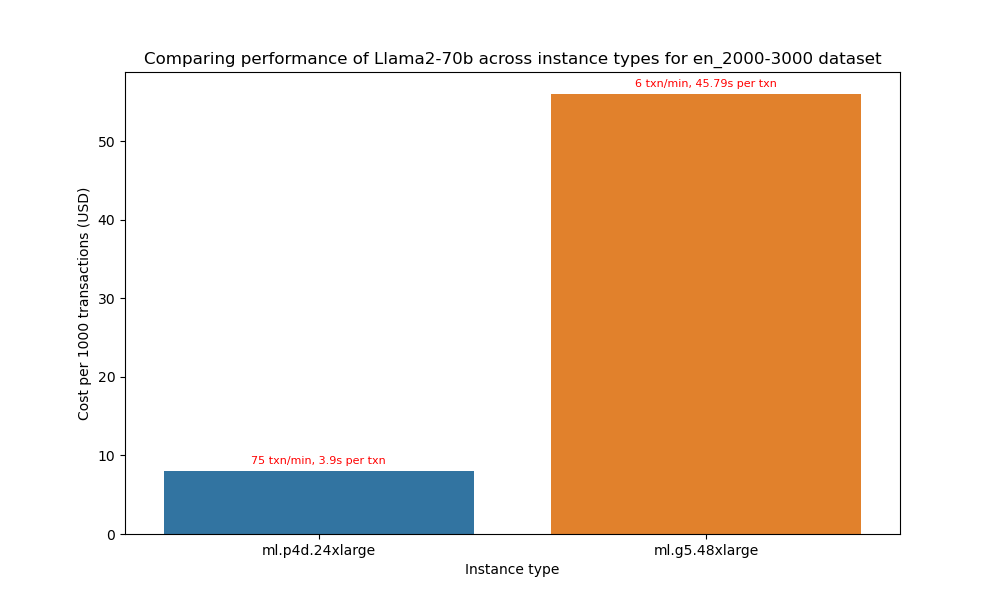
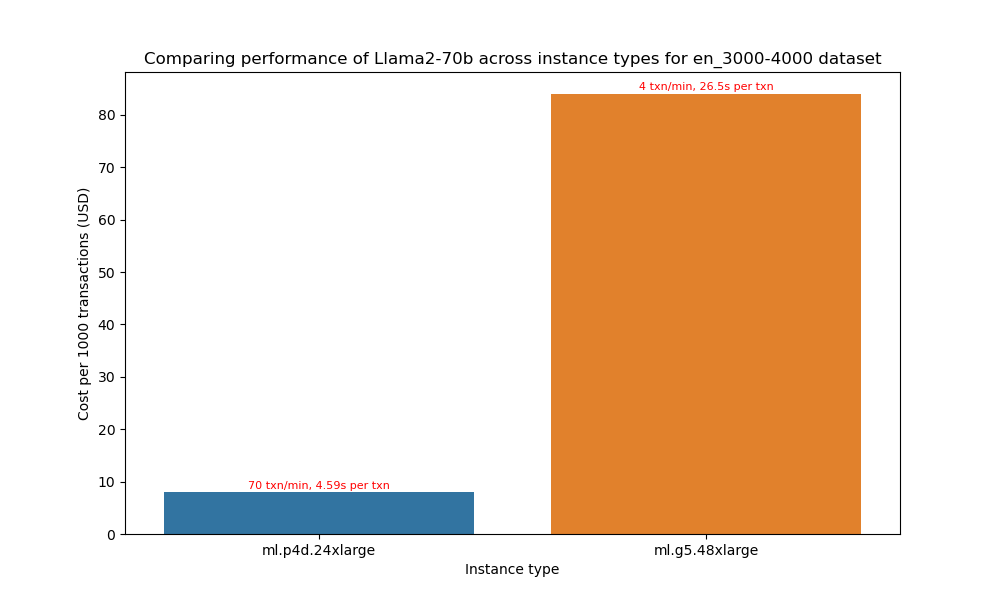
new commit for trt and g5 3k-4k results

diff --git a/data/metrics/llama2-70b-g5-p4d-trt-v1/results.md b/data/metrics/llama2-70b-g5-p4d-trt-v1/results.md
@@ -1,26 +1,26 @@
 
 # Results for performance benchmarking
 
-**Last modified (UTC): 2024-01-23 17:29:31.663151**
+**Last modified (UTC): 2024-01-23 18:09:15.189469**
 
 ## Summary
 
-We did performance benchmarking for the `Llama2-70b` model on "`ml.p4d.24xlarge`, `ml.g5.48xlarge`" instances on multiple datasets and based on the test results the best price performance for dataset `en_2000-3000` is provided by the `ml.p4d.24xlarge` instance type.  
+We did performance benchmarking for the `Llama2-70b` model on "`ml.p4d.24xlarge`, `ml.g5.48xlarge`" instances on multiple datasets and based on the test results the best price performance for dataset `en_3000-4000` is provided by the `ml.p4d.24xlarge` instance type.  
 | Information | Value |
 |-----|-----|
 | experiment_name | llama2-70b-chat-p4d.24xlarge-djl-inference-0.26.0-tensorrtllm0.7.1-cu122 |
-| payload_file | payload_en_2000-3000.jsonl |
+| payload_file | payload_en_3000-4000.jsonl |
 | instance_type | ml.p4d.24xlarge |
 | concurrency | 8 |
 | error_rate | 0.0 |
-| prompt_token_count_mean | 2503 |
-| prompt_token_throughput | 3168 |
-| completion_token_count_mean | 73 |
-| completion_token_throughput | 89 |
-| latency_mean | 3.9 |
-| transactions_per_minute | 75 |
+| prompt_token_count_mean | 3455 |
+| prompt_token_throughput | 4089 |
+| completion_token_count_mean | 70 |
+| completion_token_throughput | 83 |
+| latency_mean | 4.59 |
+| transactions_per_minute | 70 |
 | price_per_hour | 37.688 |
-| price_per_txn | 0.0084 |
+| price_per_txn | 0.009 |
 
 
 The price performance comparison for different instance types is presented below:
